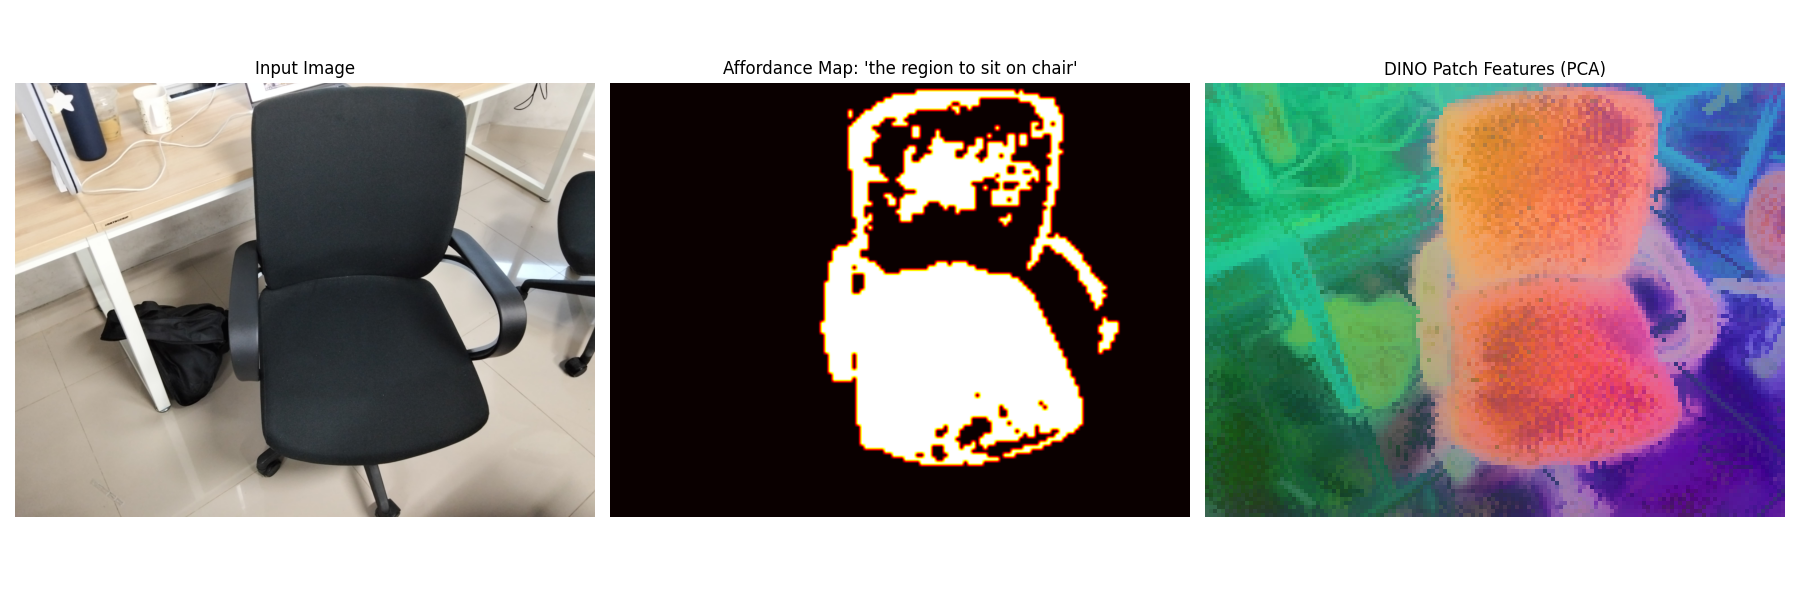
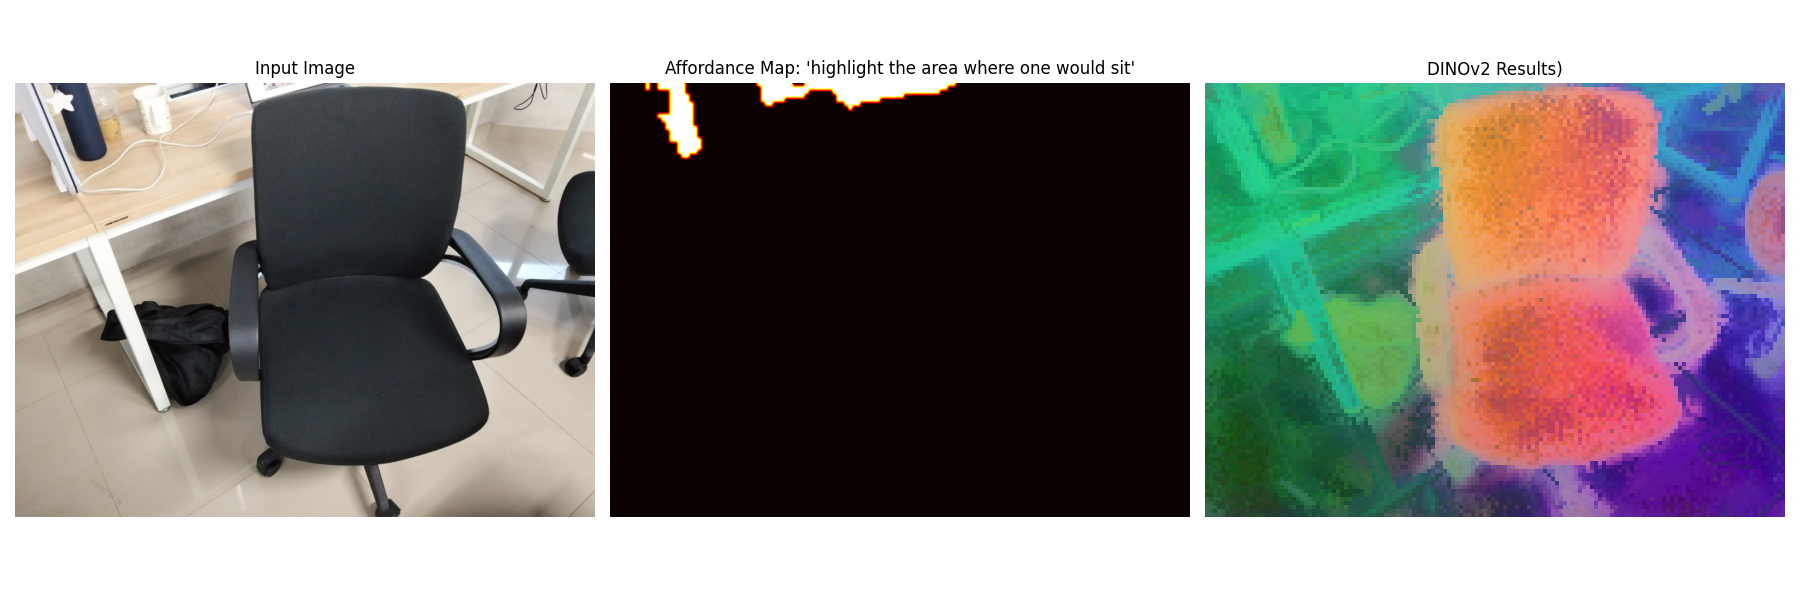
fix: gemini logic

Changed region(s): [[0.3422, 0.09, 0.6222, 0.78], [0.7778, 0.09, 0.9022, 0.15]]

diff --git a/src/utils/vlm_utils.py b/src/utils/vlm_utils.py
@@ -9,6 +9,7 @@ import ast
 import base64
 import requests
 import logging
+import io
 from PIL import Image
 import matplotlib.pyplot as plt
 import numpy as np
@@ -62,23 +63,24 @@ def get_text_embedding_sentence_transformer(text, model_name="all-MiniLM-L6-v2")
     embedding = sentence_transformer_model.encode(text) # shape (D,)
     return embedding
 
-def get_text_embedding_gemini(text, model="models/text-embedding-004", dim=1024):
+def get_text_embedding_gemini(text, model="models/embedding-001", dim=1024):
     """
     Get Gemini text embedding with specified dimension
     """
-    genai.configure(api_key="AIzaSyCuxFkBH6Ls_CabrJlBR7YkvVjWzBWuTXU") #!TO CHANGE
+    genai.configure(api_key=os.environ["GOOGLE_API_KEY"])
+
     embedding = genai.embed_content(model=model,
                                     content=text,
                                     task_type="retrieval_document")
-    
+
     embedding = np.array(embedding['embedding'])
-    
+
     # Pad the embedding if it's smaller than the target dimension
     if embedding.shape[0] < dim:
         padded_embedding = np.zeros(dim)
         padded_embedding[:embedding.shape[0]] = embedding
         return padded_embedding
-    
+
     return embedding
 
 ##############################################
@@ -100,9 +102,41 @@ def create_payload_gpt4(messages):
     }
     return payload
 
+def create_payload_gemini(system_prompt, user_prompt):
+    """
+    Create payload for Gemini.
+    Input:
+        system_prompt: list of dicts, each in form {"role": str, "content": list of content dicts}
+        user_prompt: list of dicts, each in form {"role": str, "content": list of content dicts}
+    """
+    # Extract the text parts from the system_prompt and user_prompt
+    system_text = "".join([part["text"] for part in system_prompt if part["type"] == "text"])
+    user_text = "".join([part["text"] for part in user_prompt if part["type"] == "text"])
+
+    # Extract image data from user_prompt
+    image_data = [part["image_url"]["url"].split(",")[1] for part in user_prompt if part["type"] == "image_url"]
+
+    # Create the prompt for Gemini
+    prompt = [system_text, user_text]
+    for img in image_data:
+        prompt.append(Image.open(io.BytesIO(base64.b64decode(img))))
+
+    return prompt
+
 def get_response(payload):
     client = OpenAI(api_key=os.environ["OPENAI_API_KEY"])
     return client.chat.completions.create(**payload)
+
+def get_gemini_response(prompt):
+    """
+    Get response from Gemini.
+    Input:
+        prompt: list of strings and images
+    """
+    genai.configure(api_key=os.environ["GOOGLE_API_KEY"])
+    model = genai.GenerativeModel('gemini-pro-vision')
+    response = model.generate_content(prompt)
+    return response
 
 def create_content_list(text_list, images, is_claude=False):
     """

diff --git a/src/get_vlm_response.py b/src/get_vlm_response.py
@@ -5,7 +5,9 @@ from PIL import Image
 from utils.vlm_utils import (
     encode_image, create_payload_gpt4, get_response, create_content_list, formulate_input,
     query_model_text_only,
-    parse_lm_output
+    parse_lm_output,
+    create_payload_gemini,
+    get_gemini_response
 )
 
 ################
@@ -100,6 +102,15 @@ def get_end_to_end_matching(obj, query_path, query_prefix, use_vlm='claude'):
         payload = create_payload_gpt4([{"role":"system", "content":system_content}, {"role":"user", "content":user_content}])
         response = get_response(payload)
         text = response.choices[0].message.content
+
+    elif use_vlm == 'gemini':
+        system_content = create_content_list(["".join(system_prompt)], None)
+        user_content = create_content_list(["".join(user_prompt)], encoded_imgs)
+
+        # query model
+        prompt = create_payload_gemini(system_content, user_content)
+        response = get_gemini_response(prompt)
+        text = response.text
 
     else:
         raise NotImplementedError(f"Invalid VLM model: {use_vlm}")

diff --git a/src/inference.py b/src/inference.py
@@ -49,7 +49,7 @@ class AffordanceInference:
         self.text_embedding_func = text_embedding_func
     
     @torch.no_grad()
-    def predict(self, img_np, text, thresh=0.5, scale_factor=2):
+    def predict(self, img_np, text, thresh=0.1, scale_factor=2):
         """
         img_np: H×W×3 numpy array (uint8 or float in [0,1])
         text: natural language description
@@ -103,7 +103,7 @@ def main():
     
     ## ===== Example usage ===== ##
     image_path = os.path.join(os.path.dirname(__file__), '..', 'examples', 'kursi.jpeg')
-    text_query = "the region to sit on chair"
+    text_query = "highlight the area where one would sit"
     
     # Load image
     img = Image.open(image_path).convert("RGB")
@@ -160,7 +160,7 @@ def main():
     
     plt.subplot(1, 3, 3)
     plt.imshow(pca_img)
-    plt.title("DINO Patch Features (PCA)")
+    plt.title("DINOv2 Results)")
     plt.axis('off')
     
     plt.tight_layout()
